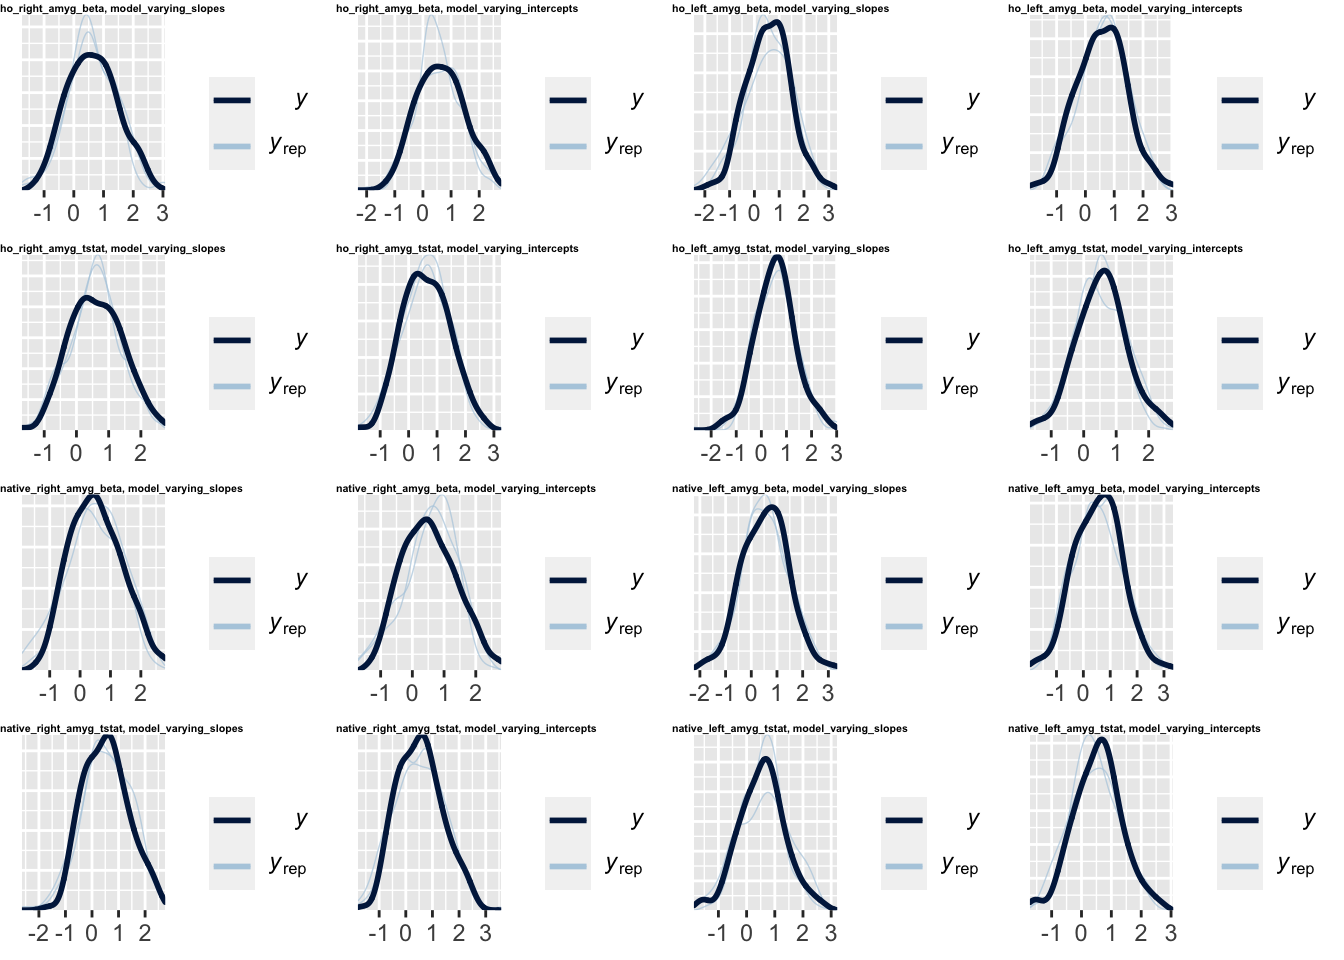
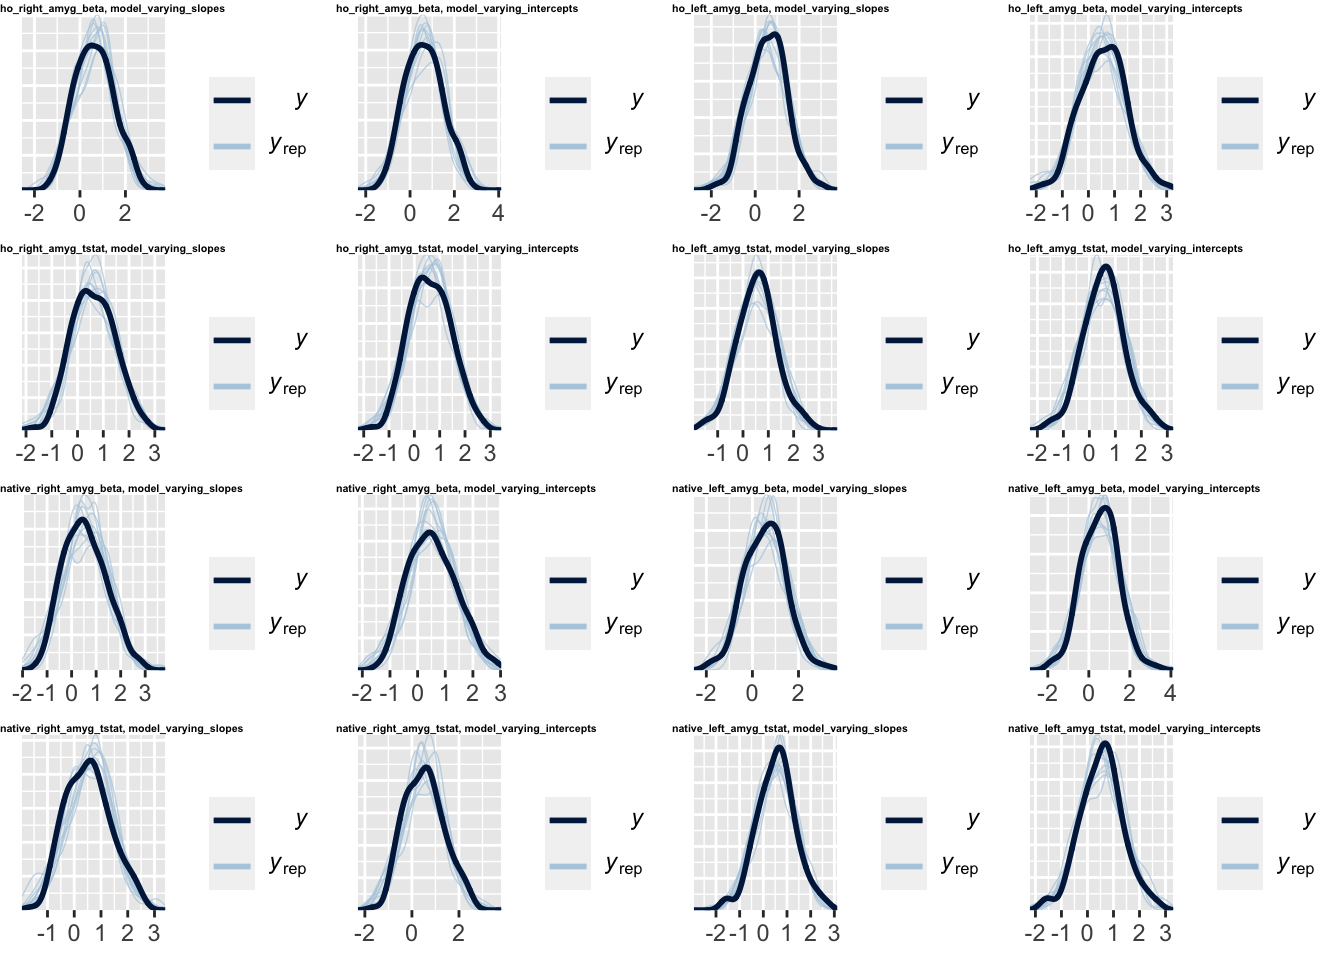
prelim multiverse walkthrough draft

diff --git a/docs/into_the_bayesian_multiverse.html b/docs/into_the_bayesian_multiverse.html
@@ -395,7 +395,7 @@ div.tocify {
 <p>Welcome! This document serves 2 purposes:</p>
 <ol style="list-style-type: decimal">
 <li>Provide a walkthough for anyone potentially interested in conducting multiverse analyses (or specification curves), especially when considering Bayesian models or fMRI data.</li>
-<li>Serve as documentation for analysis code for <a href="https://osf.io/">Bloom et al. 2021</a> with code that can be run using <em>simulated data</em> (i.e. fake data), since we cannot share the data publicly.</li>
+<li>Serve as documentation for analysis code for <a href="https://osf.io/">Bloom et al., 2021</a> with code that can be run using <em>simulated data</em> (i.e. fake data), since we cannot share the data publicly. Note: the simulated data &amp; corresponding code walkthrough are specifically for amygdala reactivity analyses for the fear &gt; baseline contrast.</li>
 </ol>
 <div id="what-is-a-multiverse-anyway-what-is-a-specification-curve" class="section level2">
 <h2>What is a multiverse anyway? What is a specification curve?</h2>
@@ -492,6 +492,7 @@ library(cowplot)</code></pre>
 </div>
 <div id="specification-curve-specr-version" class="section level1">
 <h1>2. Specification curve: <code>specr</code> version</h1>
+<p><a href="https://github.com/masurp/specr"><img src="images/specr_logo.png" alt="specr" style="width:15.0%" /></a></p>
 <p><a href="https://cran.r-project.org/web/packages/specr/vignettes/specr.html">specr</a> is a great package with a lot of nice functionality for running specification curve analyses. This wasn’t the software we used for the main analyses (because it hadn’t yet been released yet), but it’s probably the most straightforward way to go for regression-based specification curve analyses.</p>
 <div id="a.-define-all-reasonable-specifictions" class="section level2">
 <h2>2A. Define all ‘reasonable’ specifictions</h2>
@@ -671,11 +672,11 @@ specr::plot_specs(all_specs)</code></pre>
 <ol style="list-style-type: decimal">
 <li>Extract <a href="https://www.rdocumentation.org/packages/brms/versions/2.9.0/topics/fitted.brmsfit">fitted model predictions</a> (i.e. ‘predicting the regression line’) for each model within a specification curve. In this case, we might want to be able to plot each model’s predictions for amygdala reactivity as a function of age.</li>
 <li>Make specification curves for different parameters within the models, without having to rerun them all. For example, here we’ll look at the regression <em>intercept term</em> in a specification curver</li>
-<li>Perform checks, such as <a href="http://paul-buerkner.github.io/brms/reference/pp_check.brmsfit.html">posterior predictive checks</a>, or <a href="https://mjskay.github.io/tidybayes/articles/tidybayes-residuals.html">Q-Q plots</a> on individual models</li>
+<li>Evaluate models more generally, including using posterior predictive checks](<a href="http://paul-buerkner.github.io/brms/reference/pp_check.brmsfit.html" class="uri">http://paul-buerkner.github.io/brms/reference/pp_check.brmsfit.html</a>), or getting <a href="https://paul-buerkner.github.io/brms/reference/loo.brmsfit.html">cross-validated model performance metrics</a> for individual models</li>
 </ol>
 <div id="a.-convert-the-data-to-long-format" class="section level2">
 <h2>4A. Convert the data to long format</h2>
-<p>First, we’ll create a grand mean-centered version of our <code>age</code> variable called <code>age_center</code>. Now, a 0 for <code>age_center</code> represents the grand mean age in the dataset, or an age of 12.251. We’ll use this centered age dvariable for modeling.</p>
+<p>First, we’ll create a grand mean-centered version of our <code>age</code> variable called <code>age_center</code>. Now, a 0 for <code>age_center</code> represents the grand mean age in the dataset, or an age of 12.251. We’ll use this centered age variable for modeling.</p>
 <p>Then, we use <a href="https://tidyr.tidyverse.org/reference/pivot_longer.html">tidyr::pivot_longer()</a> to reshape the data into long form, such that all amygdala reactivity estimates are in 1 column called <code>amygdala_reactivity</code>, with a variable called <code>amygdala_measure</code> indicating which amygdala reactivity measure it is.</p>
 <pre class="r"><code>fake_data_long = fake_data %&gt;%
   dplyr::mutate(age_center = age - mean(age)) %&gt;%
@@ -1048,36 +1049,83 @@ ggplot(fake_data, aes(x = age, y = ho_right_amyg_beta)) +
 <p><img src="into_the_bayesian_multiverse_files/figure-html/unnamed-chunk-30-1.png" width="672" /></p>
 <p>This is a nice check of our model fits! However, the more specifications we have, the more difficult it is to look at so many plots for individual specifications like this. To that end, for this study we have made <a href="https://pbloom.shinyapps.io/amygdala_mpfc_multiverse/">an interactive multiverse explorer Shiny app</a> for browsing model fits across specifications.</p>
 </div>
-<div id="graphical-posterior-predictive-checks" class="section level2">
-<h2>Graphical posterior predictive checks</h2>
-<pre class="r"><code>brms::pp_check(nested_model_frame$model_object[[1]], nsamples = 1)</code></pre>
-<p><img src="into_the_bayesian_multiverse_files/figure-html/unnamed-chunk-31-1.png" width="672" /></p>
+</div>
+<div id="multiverse-model-checks" class="section level1">
+<h1>6. Multiverse model checks</h1>
+<div id="a.-graphical-posterior-predictive-checks" class="section level2">
+<h2>6A. Graphical posterior predictive checks</h2>
+<p>In addition to looking at the coefficients and predicitons from our different specifications, we may also want to perform <a href="https://cran.r-project.org/web/packages/LaplacesDemon/vignettes/BayesianInference.pdf">posterior predictive checks</a> for each one.</p>
+<p>What is a posterior predictive check? * We draw a “simulated dataset” from the model’s posterior distribution, then compare the overall distribution to the real observed data (see <a href="https://arxiv.org/abs/1709.01449">Gabry et al., 2019</a>). * Basically, a posterior predictive check is helpful in answering the question “is the model giving us a distribution of predictions that matches the real data”. If the distributions match, this doesn’t mean the model is <em>good</em> per se (the individual predictions could still be very bad), but if the distributions <em>don’t match</em>, then we know that the model is definitely not doing a good job at describing the data generation process.</p>
+<p>To get these graphical summaries of the posterior predictive check, we use the <a href="http://paul-buerkner.github.io/brms/reference/pp_check.brmsfit.html">pp_check()</a> function for <code>brms</code> models (I know…). Here, we’ll first combine this with <code>purrr_map()</code> to draw 10 samples from the posterior predictive distribution for all observations in the real dataset.</p>
 <pre class="r"><code>pp_check_grid = nested_model_frame %&gt;%
-  dplyr::mutate(chex = purrr::map(model_object, ~brms::pp_check(., nsamples = 2)))
+  dplyr::mutate(chex = purrr::map(model_object, ~brms::pp_check(., nsamples = 10)))
 
+# Make a new column to label all specifications
 nested_model_frame = mutate(nested_model_frame,
                             spec = paste0(amygdala_measure, &#39;, &#39;, model_type))</code></pre>
-<pre class="r"><code>print(nested_model_frame$spec)</code></pre>
-<pre><code>##  [1] &quot;ho_right_amyg_beta, model_varying_slopes&quot;         
-##  [2] &quot;ho_right_amyg_beta, model_varying_intercepts&quot;     
-##  [3] &quot;ho_left_amyg_beta, model_varying_slopes&quot;          
-##  [4] &quot;ho_left_amyg_beta, model_varying_intercepts&quot;      
-##  [5] &quot;ho_right_amyg_tstat, model_varying_slopes&quot;        
-##  [6] &quot;ho_right_amyg_tstat, model_varying_intercepts&quot;    
-##  [7] &quot;ho_left_amyg_tstat, model_varying_slopes&quot;         
-##  [8] &quot;ho_left_amyg_tstat, model_varying_intercepts&quot;     
-##  [9] &quot;native_right_amyg_beta, model_varying_slopes&quot;     
-## [10] &quot;native_right_amyg_beta, model_varying_intercepts&quot; 
-## [11] &quot;native_left_amyg_beta, model_varying_slopes&quot;      
-## [12] &quot;native_left_amyg_beta, model_varying_intercepts&quot;  
-## [13] &quot;native_right_amyg_tstat, model_varying_slopes&quot;    
-## [14] &quot;native_right_amyg_tstat, model_varying_intercepts&quot;
-## [15] &quot;native_left_amyg_tstat, model_varying_slopes&quot;     
-## [16] &quot;native_left_amyg_tstat, model_varying_intercepts&quot;</code></pre>
-<pre class="r"><code>f = cowplot::plot_grid(plotlist = (pp_check_grid$chex), labels = as.vector(nested_model_frame$spec), 
-                       label_size = 4, label_x = 0, hjust = 0)
-f</code></pre>
+<p>Now, we can use <code>cowplot::plot_grid()</code> again to make a panel of all 16 graphical posterior predictive checks, one for each model in our specification curve. We can use the <code>labels</code> argument to label each plot for each specification. Here, <span class="math inline">\(y\)</span> represents the distribution of actual observations, and each <span class="math inline">\(y_{rep}\)</span> distribution is one set of the posterior draws.</p>
+<pre class="r"><code>cowplot::plot_grid(plotlist = pp_check_grid$chex, 
+                   labels = as.vector(nested_model_frame$spec), 
+                   label_size = 4, label_x = 0, hjust = 0)</code></pre>
 <p><img src="into_the_bayesian_multiverse_files/figure-html/unnamed-chunk-32-1.png" width="672" /></p>
+<p>Again, this is a more descriptive analysis – it allows us to visually compare which specifications result in a model posterior distribution that most closely matches the observed data.</p>
+</div>
+<div id="b.-approximate-leave-one-out-loo-cross-validation" class="section level2">
+<h2>6B. Approximate leave-one-out (LOO) cross-validation</h2>
+<p>We might often want to to get a specification curve for the relative model ‘goodness-of-fit’, or an approximate of predictive performance, for all specifications. We can use <a href="https://www.rdocumentation.org/packages/brms/versions/2.15.0/topics/loo.brmsfit">brms::loo()</a> to performe approximate leave-one-out (LOO) cross-validation for each model. So, here, well use <code>purrr::map()</code> again with <code>brms:loo()</code> to get these estimates</p>
+<ul>
+<li>This function will give us a cross-validated estimate for the expected log pointwise predictive density, or <a href="https://avehtari.github.io/modelselection/CV-FAQ.html">ELPD</a>, as a metric for the “expected predictive performance” for a model. ELPD as estimated by LOO cross-validation is similar in purpose to the Akaike Information Criterion (AIC), although it takes model priors into account and does not make distributional assumptions about the posterior (see <a href="https://link.springer.com/article/10.1007/s11222-016-9696-4">Vehtari, Gelman, &amp; Gabry, 2017</a>)</li>
+<li>This function uses Pareto smoothed importance sampling (<a href="https://arxiv.org/abs/1507.02646">Vehtari et al., 2015</a>) for cross-validation here, which means that unless results are very bad, we won’t have to repeatedly refit the Bayesian models (which would take a while)</li>
+</ul>
+<pre class="r"><code>loo_cv_grid = nested_model_frame %&gt;%
+  dplyr::mutate(loo_cv = purrr::map(model_object, ~brms::loo(.)$estimates))</code></pre>
+<p>Now, we can unnest our ELPD estimates as well as their standard errors, then plot them for each specification.</p>
+<pre class="r"><code># unnest and wrangle elpd estimates into the data frame 
+loo_unnest = unnest(loo_cv_grid, loo_cv)
+loo_cv_grid$elpd_loo = as.numeric(loo_unnest$loo_cv[,1][row.names(loo_unnest$loo_cv)==&#39;elpd_loo&#39;])
+loo_cv_grid$elpd_loo_se = as.numeric(loo_unnest$loo_cv[,2][row.names(loo_unnest$loo_cv)==&#39;elpd_loo&#39;])</code></pre>
+<p>The raw value of ELPD by itself doesn’t mean much intrinsically, but since higher (or less negative) ELPD is better, we can use this to compare expected model predictive performance. So, we can see here that model predictive performance is mostly impacted here by the amygdala measure used, although for most measures, the models with varying intercepts have slightly higher (better) ELPD than models with varying slopes.</p>
+<pre class="r"><code>ggplot(loo_cv_grid, aes(x = fct_reorder(spec, elpd_loo), y = elpd_loo)) +
+  geom_point() +
+  geom_errorbar(aes(ymin = elpd_loo - elpd_loo_se, ymax = elpd_loo + elpd_loo_se)) +
+  coord_flip() +
+  theme_bw() +
+  labs(x = &#39;Specification&#39;, y = &#39;elpd_loo&#39;)</code></pre>
+<p><img src="into_the_bayesian_multiverse_files/figure-html/unnamed-chunk-35-1.png" width="672" /></p>
+</div>
+</div>
+<div id="recap" class="section level1">
+<h1>7. Recap</h1>
+<p>Though we can’t share the real data used in the current study, hopefully these walkthroughs of multiverse analyses using publicly available <a href="https://github.com/pab2163/amygdala_mpfc_multiverse/blob/master/docs/simulated_amygdala_reactivity.csv">simulated data</a> have been helpful! Overall, we find that specification curves can a super useful as a way to examine the robustness of results when we’re faced with many analysis decision points. For anyone who is interested, good luck <em>traveling the multiverse!</em></p>
+<p><strong>Questions?</strong> Feel free to reach out to <a href="mailto:paul.bloom@columbia.edu" class="email">paul.bloom@columbia.edu</a></p>
+</div>
+<div id="resources" class="section level1">
+<h1>Resources</h1>
+<div id="readings-on-specification-curves-multiverse-analyses" class="section level2">
+<h2>Readings on specification curves &amp; multiverse analyses</h2>
+<ul>
+<li><a href="https://journals.sagepub.com/doi/10.1177/2515245920954925">Del Guidice &amp; Gangestad, 2021</a></li>
+<li>Simonsohn, Simmons, &amp; Nelson <a href="https://sticerd.lse.ac.uk/seminarpapers/psyc16022016.pdf">2015</a> &amp; <a href="https://www.nature.com/articles/s41562-020-0912-z">2020</a></li>
+<li><a href="https://journals.sagepub.com/doi/10.1177/1745691616658637">Steegen et al., 2016</a></li>
+</ul>
+</div>
+<div id="a-few-papers-using-multiverse-analyses" class="section level2">
+<h2>A few papers using multiverse analyses</h2>
+<ul>
+<li><a href="https://psyarxiv.com/23mu5/">Cosme &amp; Lopez, 2021</a></li>
+<li><a href="https://www.nature.com/articles/s41562-018-0506-1">Orben &amp; Przybylski, 2019</a></li>
+<li><a href="https://psycnet.apa.org/record/2020-15046-001">Frey et al., 2021</a></li>
+<li><a href="https://www.tandfonline.com/doi/full/10.1080/09658211.2020.1797095">Wessel et al., 2020</a></li>
+</ul>
+</div>
+<div id="resources-for-conducting-specification-curve-analyses-with-r" class="section level2">
+<h2>Resources for conducting specification curve analyses with R</h2>
+<ul>
+<li>The <a href="https://github.com/masurp/specr">specr</a> R package for making specification curves</li>
+<li><a href="https://dcosme.github.io/specification-curves/SCA_tutorial_inferential">Dani Cosme’s comprehensive SCA tutorial</a></li>
+<li><a href="https://www.monicathieu.com/posts/2020-04-08-tidy-multilevel/">Monica Thieu’s tutorial</a> on wrangling mulilevel data using the tidyverse, especially with <code>purrr</code></li>
+<li><a href="https://cu-psych-computing.github.io/cu-psych-comp-tutorial/">Columbia Psychology Scientific Computing R tutorials, videos, &amp; challenges</a> (good for getting started with R)</li>
+</ul>
 </div>
 </div>
 
